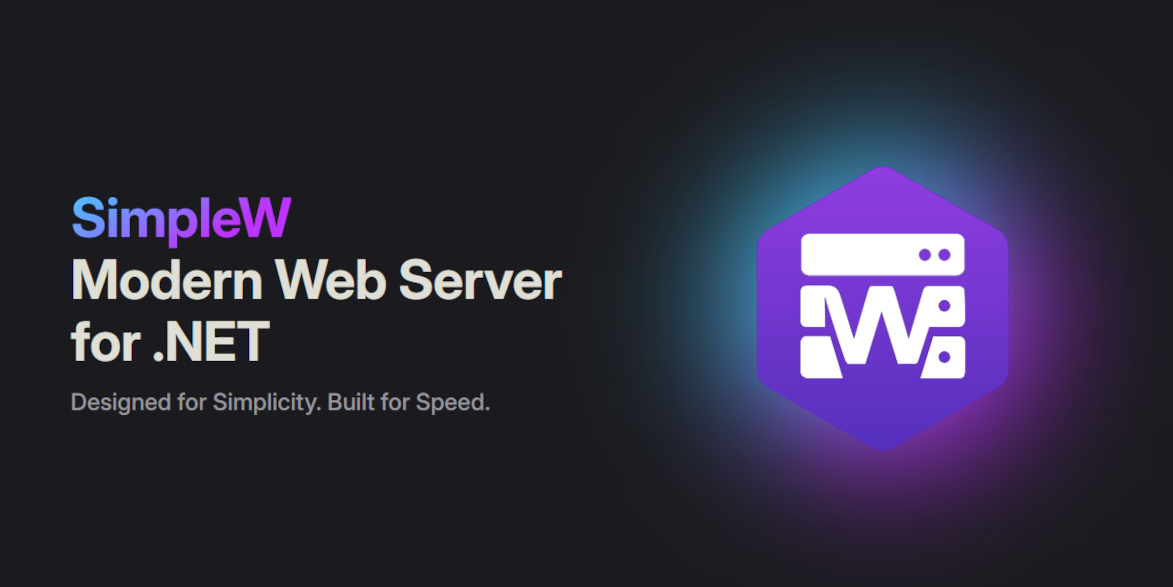
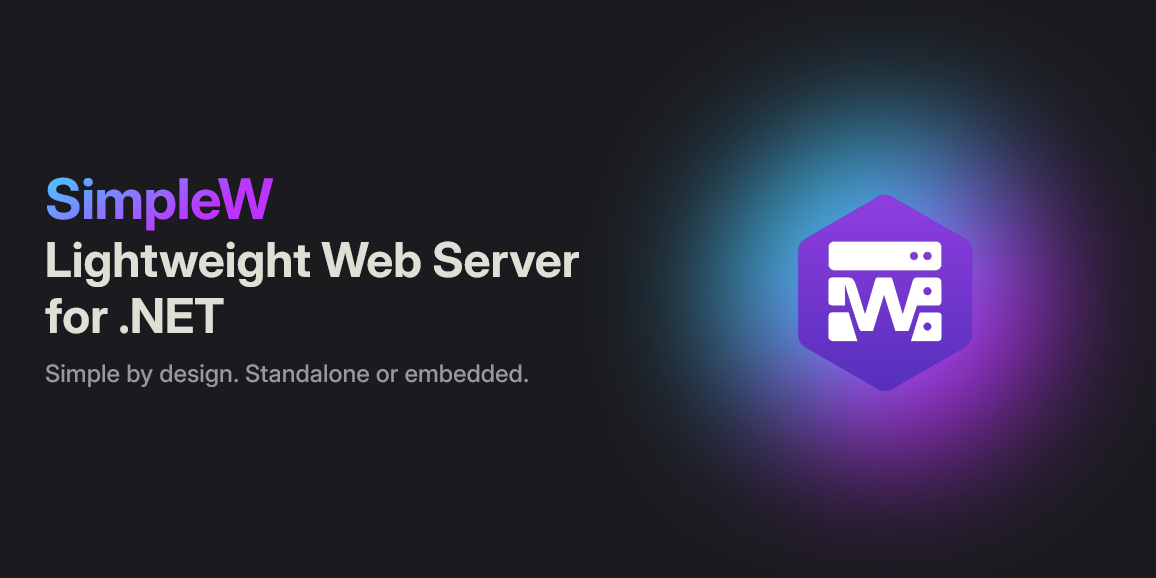
fix(documentation): upload og and slogan

Changed region(s): [[0.0311, 0.3114, 0.4983, 0.7163], [0.6228, 0.1869, 0.9343, 0.7785]]

diff --git a/documentation/simplew/docs/guide/what-is-simplew.md b/documentation/simplew/docs/guide/what-is-simplew.md
@@ -1,7 +1,7 @@
 # What is SimpleW?
 
-SimpleW is a modern web server for .NET.<br />
-It is designed for building fast and secure web applications.
+SimpleW is a lightweigh web server for .NET.<br />
+It is designed for building standalone or embedded web applications.
 
 <div class="tip custom-block" style="padding-top: 8px">
 
